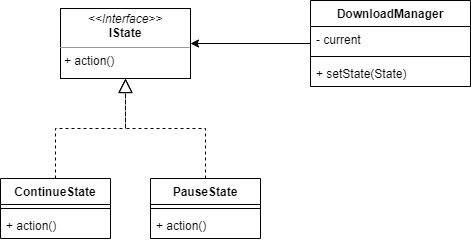
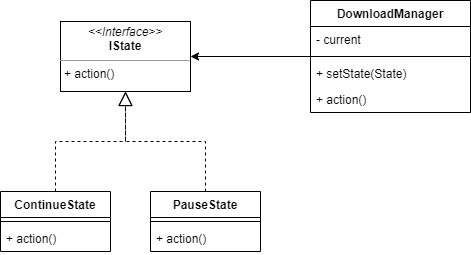
State for Go

diff --git a/State/PHP/Test.php b/State/PHP/Test.php
@@ -10,9 +10,13 @@ class Test {
         $pauseState = new PauseState;
         $downloadManager = new DownloadManager($continueState);
 
-        // Test set state
+        // Test pause state
         $downloadManager->setState($pauseState);
+        $downloadManager->action();
+
+        // Test continue state
         $downloadManager->setState($continueState);
+        $downloadManager->action();
     }
 }
 

diff --git a/State/Golang/Test.go b/State/Golang/Test.go
@@ -1,0 +1,18 @@
+package main
+
+func main()  {
+	continueState := &ContinueState{}
+	pauseState := &PauseState{}
+	downloadManager := &DownloadManager{
+		current: continueState,
+	}
+
+	// Test for pause state
+	downloadManager.setState(pauseState)
+	downloadManager.action()
+
+	// Test for continue state
+	downloadManager.setState(continueState)
+	downloadManager.action()
+
+}

diff --git a/State/Golang/DownloadManager.go b/State/Golang/DownloadManager.go
@@ -1,0 +1,13 @@
+package main
+
+type DownloadManager struct {
+	current IState
+}
+
+func (downloadManager *DownloadManager) setState(state IState) {
+	downloadManager.current = state
+}
+
+func (downloadManager *DownloadManager) action()  {
+	downloadManager.current.action()
+}

diff --git a/State/PHP/DownloadManager.php b/State/PHP/DownloadManager.php
@@ -12,7 +12,9 @@ class DownloadManager {
 
     public function setState(IState $state) {
         $this->current = $state;
+    }
 
+    public function action() {
         $this->current->action();
     }
 }

diff --git a/State/Golang/ContinueState.go b/State/Golang/ContinueState.go
@@ -1,0 +1,9 @@
+package main
+
+import "fmt"
+
+type ContinueState struct {}
+
+func (state *ContinueState) action()  {
+	fmt.Println("Download continued")
+}

diff --git a/State/Golang/PauseState.go b/State/Golang/PauseState.go
@@ -1,0 +1,9 @@
+package main
+
+import "fmt"
+
+type PauseState struct {}
+
+func (state *PauseState) action()  {
+	fmt.Println("Download paused")
+}

diff --git a/State/Golang/IState.go b/State/Golang/IState.go
@@ -1,0 +1,5 @@
+package main
+
+type IState interface {
+	action()
+}
